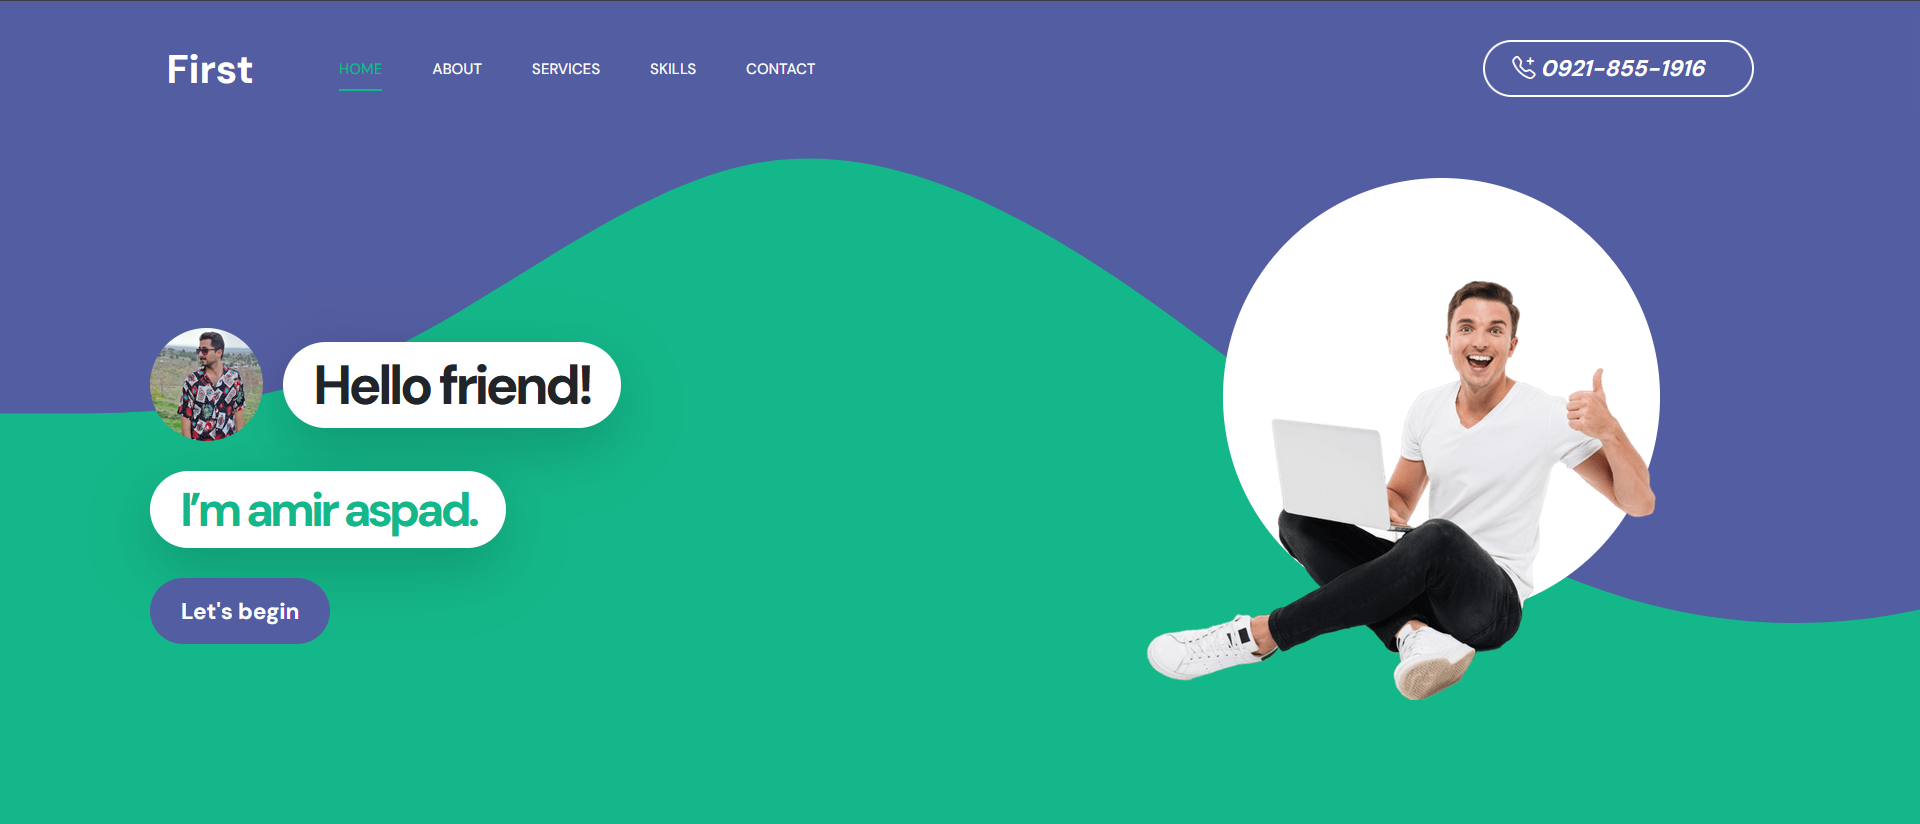
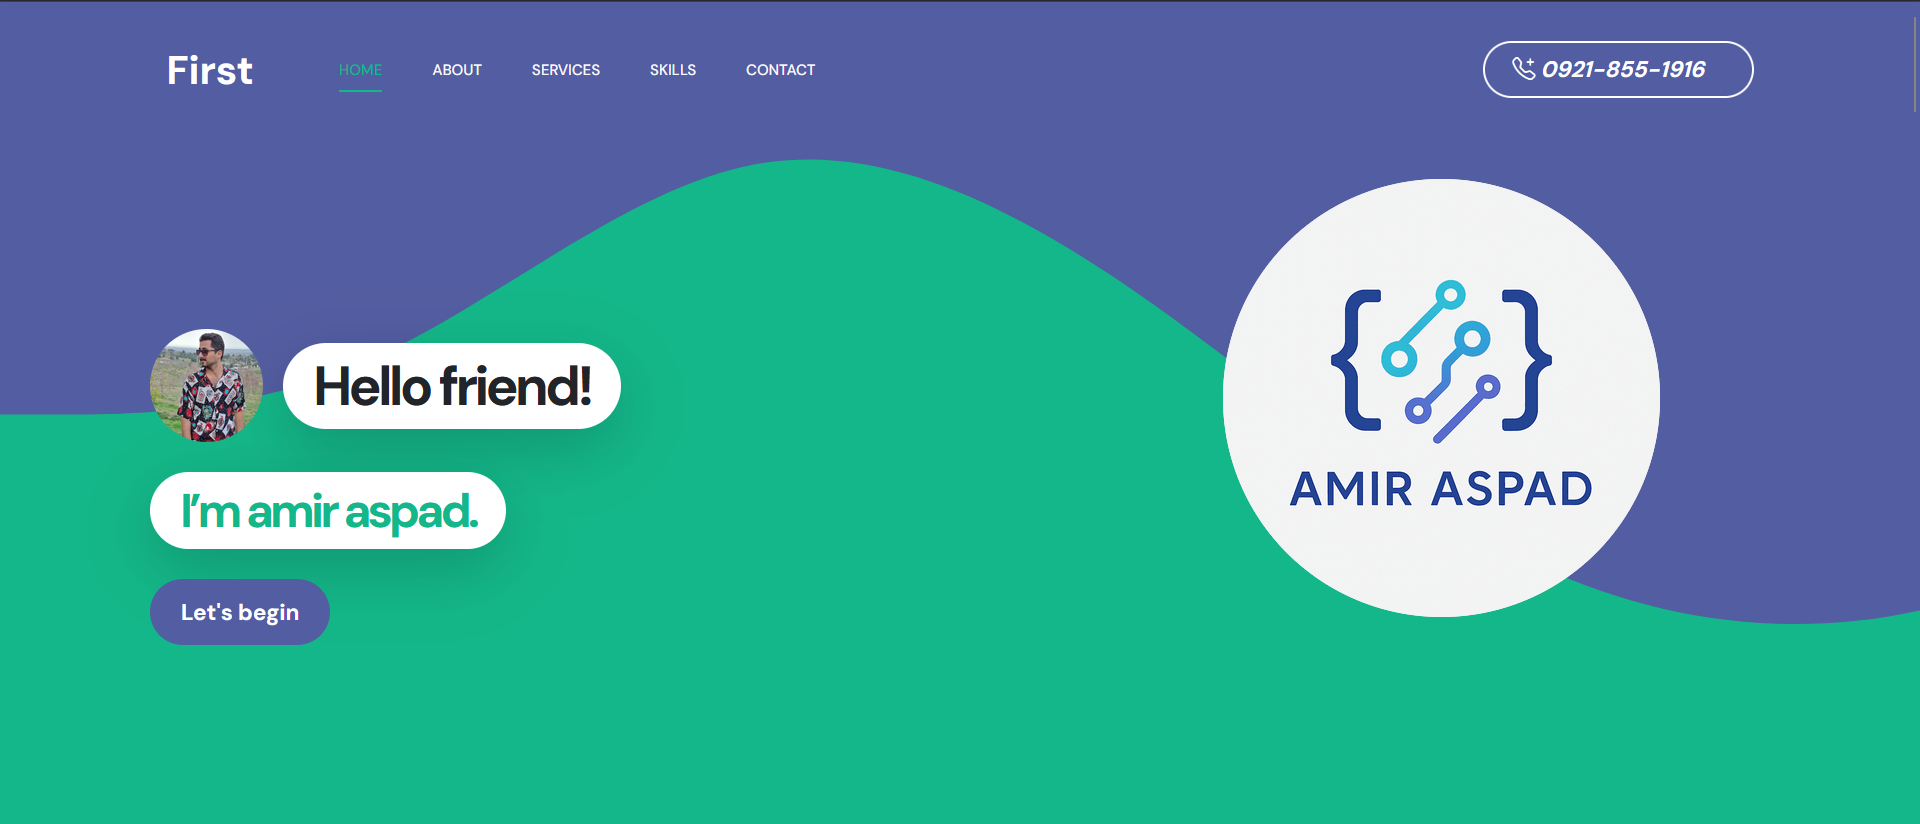
change percent of skills and some other info

diff --git a/index.html b/index.html
@@ -193,7 +193,7 @@
                                 </div>
 
                                 <div class="col-lg-6 col-6 featured-border-start featured-border-bottom ps-5 py-2">
-                                    <strong class="featured-numbers">5+</strong>
+                                    <strong class="featured-numbers">13+</strong>
 
                                     <p class="featured-text">Technologies Used</p>
                                 </div>
@@ -205,7 +205,7 @@
                                 </div>
 
                                 <div class="col-lg-6 col-6 featured-border-start ps-5 pt-4">
-                                    <strong class="featured-numbers">4+</strong>
+                                    <strong class="featured-numbers">8+</strong>
 
                                     <p class="featured-text">Key Skills</p>
                                 </div>
@@ -429,7 +429,7 @@
                                         <img class="image-skill" src="images/skills/css.svg" alt="css" title="css">
                                     </div>
                                 </div>
-                                <div class="gauge" data-percent="90">
+                                <div class="gauge" data-percent="100">
                                     <svg>
                                         <circle class="bg" cx="80" cy="75" r="68" />
                                         <circle class="progresss" cx="80" cy="75" r="68" />
@@ -439,7 +439,7 @@
                                             title="tailwindcss">
                                     </div>
                                 </div>
-                                <div class="gauge" data-percent="85">
+                                <div class="gauge" data-percent="100">
                                     <svg>
                                         <circle class="bg" cx="80" cy="75" r="68" />
                                         <circle class="progresss" cx="80" cy="75" r="68" />
@@ -454,7 +454,7 @@
                         </div>
                         <div class="skills-group" data-animated="false">
                             <div class="skills">
-                                <div class="gauge" data-percent="90">
+                                <div class="gauge" data-percent="100">
                                     <svg>
                                         <circle class="bg" cx="80" cy="75" r="68" />
                                         <circle class="progresss" cx="80" cy="75" r="68" />
@@ -470,6 +470,15 @@
                                     </svg>
                                     <div class="label">
                                         <img class="image-skill" src="images/skills/docker.svg" alt="docker" title="docker">
+                                    </div>
+                                </div>
+                                <div class="gauge" data-percent="80">
+                                    <svg>
+                                        <circle class="bg" cx="80" cy="75" r="68" />
+                                        <circle class="progresss" cx="80" cy="75" r="68" />
+                                    </svg>
+                                    <div class="label">
+                                        <img class="image-skill" src="images/skills/wordpress.svg" alt="wordpress" title="wordpress">
                                     </div>
                                 </div>
                             </div>
